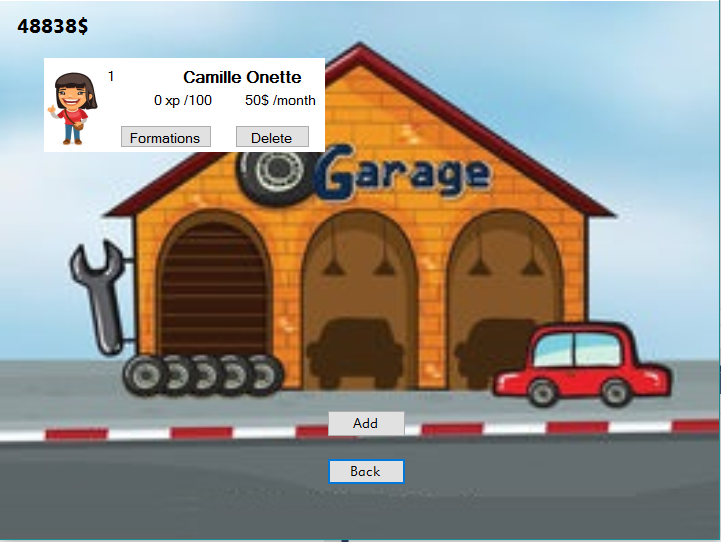
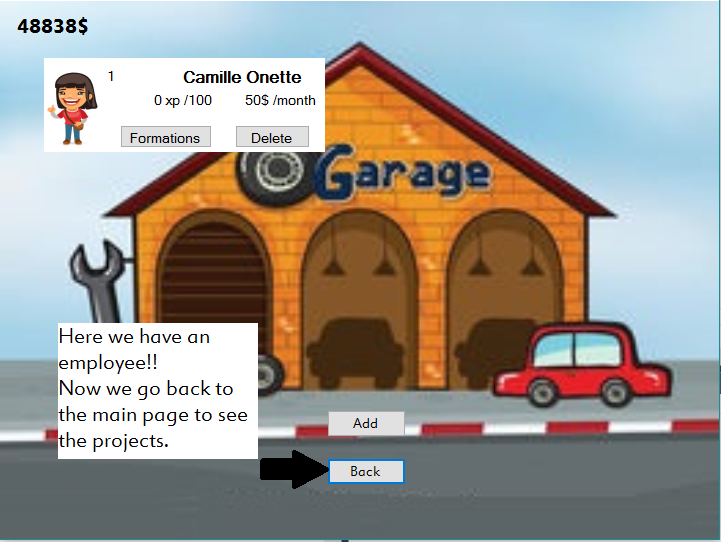
tuto ok

Changed region(s): [[0.061, 0.5904, 0.4577, 0.9151]]

diff --git a/BusinessCompany/Properties/Resources.Designer.cs b/BusinessCompany/Properties/Resources.Designer.cs
@@ -63,6 +63,36 @@ namespace BusinessCompany.Properties {
         /// <summary>
         ///   Looks up a localized resource of type System.Drawing.Bitmap.
         /// </summary>
+        internal static System.Drawing.Bitmap AddEmployee {
+            get {
+                object obj = ResourceManager.GetObject("AddEmployee", resourceCulture);
+                return ((System.Drawing.Bitmap)(obj));
+            }
+        }
+        
+        /// <summary>
+        ///   Looks up a localized resource of type System.Drawing.Bitmap.
+        /// </summary>
+        internal static System.Drawing.Bitmap AddProject {
+            get {
+                object obj = ResourceManager.GetObject("AddProject", resourceCulture);
+                return ((System.Drawing.Bitmap)(obj));
+            }
+        }
+        
+        /// <summary>
+        ///   Looks up a localized resource of type System.Drawing.Bitmap.
+        /// </summary>
+        internal static System.Drawing.Bitmap AssignedEmployee {
+            get {
+                object obj = ResourceManager.GetObject("AssignedEmployee", resourceCulture);
+                return ((System.Drawing.Bitmap)(obj));
+            }
+        }
+        
+        /// <summary>
+        ///   Looks up a localized resource of type System.Drawing.Bitmap.
+        /// </summary>
         internal static System.Drawing.Bitmap backgroudOption {
             get {
                 object obj = ResourceManager.GetObject("backgroudOption", resourceCulture);
@@ -116,6 +146,16 @@ namespace BusinessCompany.Properties {
         internal static System.Drawing.Bitmap donjon {
             get {
                 object obj = ResourceManager.GetObject("donjon", resourceCulture);
+                return ((System.Drawing.Bitmap)(obj));
+            }
+        }
+        
+        /// <summary>
+        ///   Looks up a localized resource of type System.Drawing.Bitmap.
+        /// </summary>
+        internal static System.Drawing.Bitmap Employee {
+            get {
+                object obj = ResourceManager.GetObject("Employee", resourceCulture);
                 return ((System.Drawing.Bitmap)(obj));
             }
         }
@@ -186,6 +226,26 @@ namespace BusinessCompany.Properties {
         internal static System.Drawing.Bitmap maisonVieille {
             get {
                 object obj = ResourceManager.GetObject("maisonVieille", resourceCulture);
+                return ((System.Drawing.Bitmap)(obj));
+            }
+        }
+        
+        /// <summary>
+        ///   Looks up a localized resource of type System.Drawing.Bitmap.
+        /// </summary>
+        internal static System.Drawing.Bitmap Menu1 {
+            get {
+                object obj = ResourceManager.GetObject("Menu1", resourceCulture);
+                return ((System.Drawing.Bitmap)(obj));
+            }
+        }
+        
+        /// <summary>
+        ///   Looks up a localized resource of type System.Drawing.Bitmap.
+        /// </summary>
+        internal static System.Drawing.Bitmap Menu2 {
+            get {
+                object obj = ResourceManager.GetObject("Menu2", resourceCulture);
                 return ((System.Drawing.Bitmap)(obj));
             }
         }
@@ -413,6 +473,16 @@ namespace BusinessCompany.Properties {
         /// <summary>
         ///   Looks up a localized resource of type System.Drawing.Bitmap.
         /// </summary>
+        internal static System.Drawing.Bitmap Project {
+            get {
+                object obj = ResourceManager.GetObject("Project", resourceCulture);
+                return ((System.Drawing.Bitmap)(obj));
+            }
+        }
+        
+        /// <summary>
+        ///   Looks up a localized resource of type System.Drawing.Bitmap.
+        /// </summary>
         internal static System.Drawing.Bitmap room_b {
             get {
                 object obj = ResourceManager.GetObject("room b", resourceCulture);
@@ -436,6 +506,26 @@ namespace BusinessCompany.Properties {
         internal static System.Drawing.Bitmap stardew {
             get {
                 object obj = ResourceManager.GetObject("stardew", resourceCulture);
+                return ((System.Drawing.Bitmap)(obj));
+            }
+        }
+        
+        /// <summary>
+        ///   Looks up a localized resource of type System.Drawing.Bitmap.
+        /// </summary>
+        internal static System.Drawing.Bitmap WithoutEmployee {
+            get {
+                object obj = ResourceManager.GetObject("WithoutEmployee", resourceCulture);
+                return ((System.Drawing.Bitmap)(obj));
+            }
+        }
+        
+        /// <summary>
+        ///   Looks up a localized resource of type System.Drawing.Bitmap.
+        /// </summary>
+        internal static System.Drawing.Bitmap WithoutProject {
+            get {
+                object obj = ResourceManager.GetObject("WithoutProject", resourceCulture);
                 return ((System.Drawing.Bitmap)(obj));
             }
         }

diff --git a/BusinessCompany/Tuto.cs b/BusinessCompany/Tuto.cs
@@ -1,6 +1,4 @@
 using System;
-using System.IO;
-using System.Reflection;
 using System.Collections.Generic;
 using System.ComponentModel;
 using System.Data;
@@ -36,23 +34,62 @@ namespace BusinessCompany
             switch (i)
             {
                 case 0:
-                    var outPutDirectory = Path.GetDirectoryName(Assembly.GetExecutingAssembly().CodeBase);
-
-                    var logoimage = Path.Combine(outPutDirectory, "Tuto\\Menu.png");
-                    string relLogo = new Uri(logoimage).LocalPath;
-                    this.BackgroundImage = (Bitmap)Image.FromFile(new LinkedResource(relLogo));
+                    ok.Location = new Point(599, 490);
+                    skipTuto.Hide();
+                    lbStory.Hide();
+                    this.BackgroundImage = Properties.Resources.Menu1;
                     i++;
                     break;
 
                 case 1:
+                    this.BackgroundImage = Properties.Resources.WithoutEmployee;
                     i++;
                     break;
 
                 case 2:
+                    this.BackgroundImage = Properties.Resources.AddEmployee;
                     i++;
                     break;
 
                 case 3:
+                    this.BackgroundImage = Properties.Resources.Employee;
+                    i++;
+                    break;
+
+                case 4:
+                    this.BackgroundImage = Properties.Resources.Menu2;
+                    i++;
+                    break;
+
+                case 5:
+                    this.BackgroundImage = Properties.Resources.WithoutProject;
+                    i++;
+                    break;
+
+                case 6:
+                    this.BackgroundImage = Properties.Resources.AddProject;
+                    i++;
+                    break;
+
+                case 7:
+                    this.BackgroundImage = Properties.Resources.Project;
+                    i++;
+                    break;
+
+                case 8:
+                    this.BackgroundImage = Properties.Resources.AssignedEmployee;
+                    i++;
+                    break;
+
+                case 9:
+                    ok.Location = new Point(438, 400);
+                    lbStory.Text = "You are now ready to begin!";
+                    lbStory.Show();
+                    this.BackgroundImage = Properties.Resources.backgroudStory;
+                    i++;
+                    break;
+
+                case 10:
                     Company company = new Company(this.companyName, levelGame);
                     Game game = new Game(company);
                     game.Show();

diff --git a/BusinessCompany/Tuto.Designer.cs b/BusinessCompany/Tuto.Designer.cs
@@ -35,10 +35,10 @@
             // 
             // ok
             // 
-            this.ok.Font = new System.Drawing.Font("Miramonte", 10F, System.Drawing.FontStyle.Regular, System.Drawing.GraphicsUnit.Point, ((byte)(0)));
-            this.ok.Location = new System.Drawing.Point(363, 400);
+            this.ok.Font = new System.Drawing.Font("Miramonte", 14.25F, System.Drawing.FontStyle.Regular, System.Drawing.GraphicsUnit.Point, ((byte)(0)));
+            this.ok.Location = new System.Drawing.Point(423, 432);
             this.ok.Name = "ok";
-            this.ok.Size = new System.Drawing.Size(82, 26);
+            this.ok.Size = new System.Drawing.Size(108, 36);
             this.ok.TabIndex = 3;
             this.ok.Text = "OK";
             this.ok.UseVisualStyleBackColor = true;
@@ -58,7 +58,7 @@
             // skipTuto
             // 
             this.skipTuto.Font = new System.Drawing.Font("Miramonte", 10F, System.Drawing.FontStyle.Regular, System.Drawing.GraphicsUnit.Point, ((byte)(0)));
-            this.skipTuto.Location = new System.Drawing.Point(503, 400);
+            this.skipTuto.Location = new System.Drawing.Point(438, 400);
             this.skipTuto.Name = "skipTuto";
             this.skipTuto.Size = new System.Drawing.Size(82, 26);
             this.skipTuto.TabIndex = 4;
